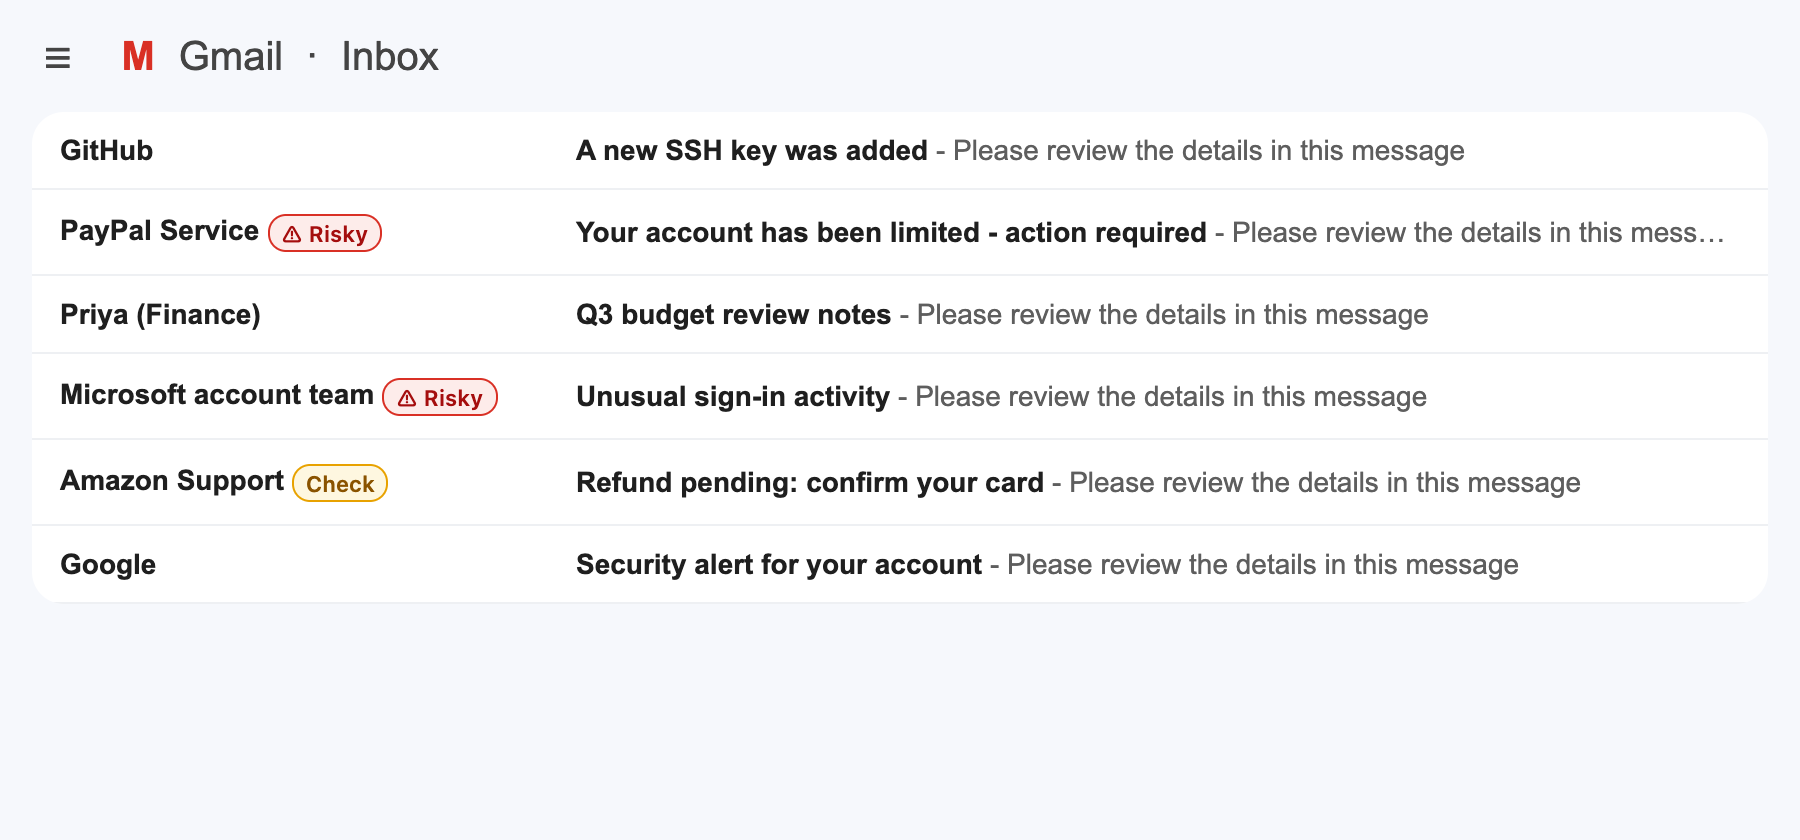
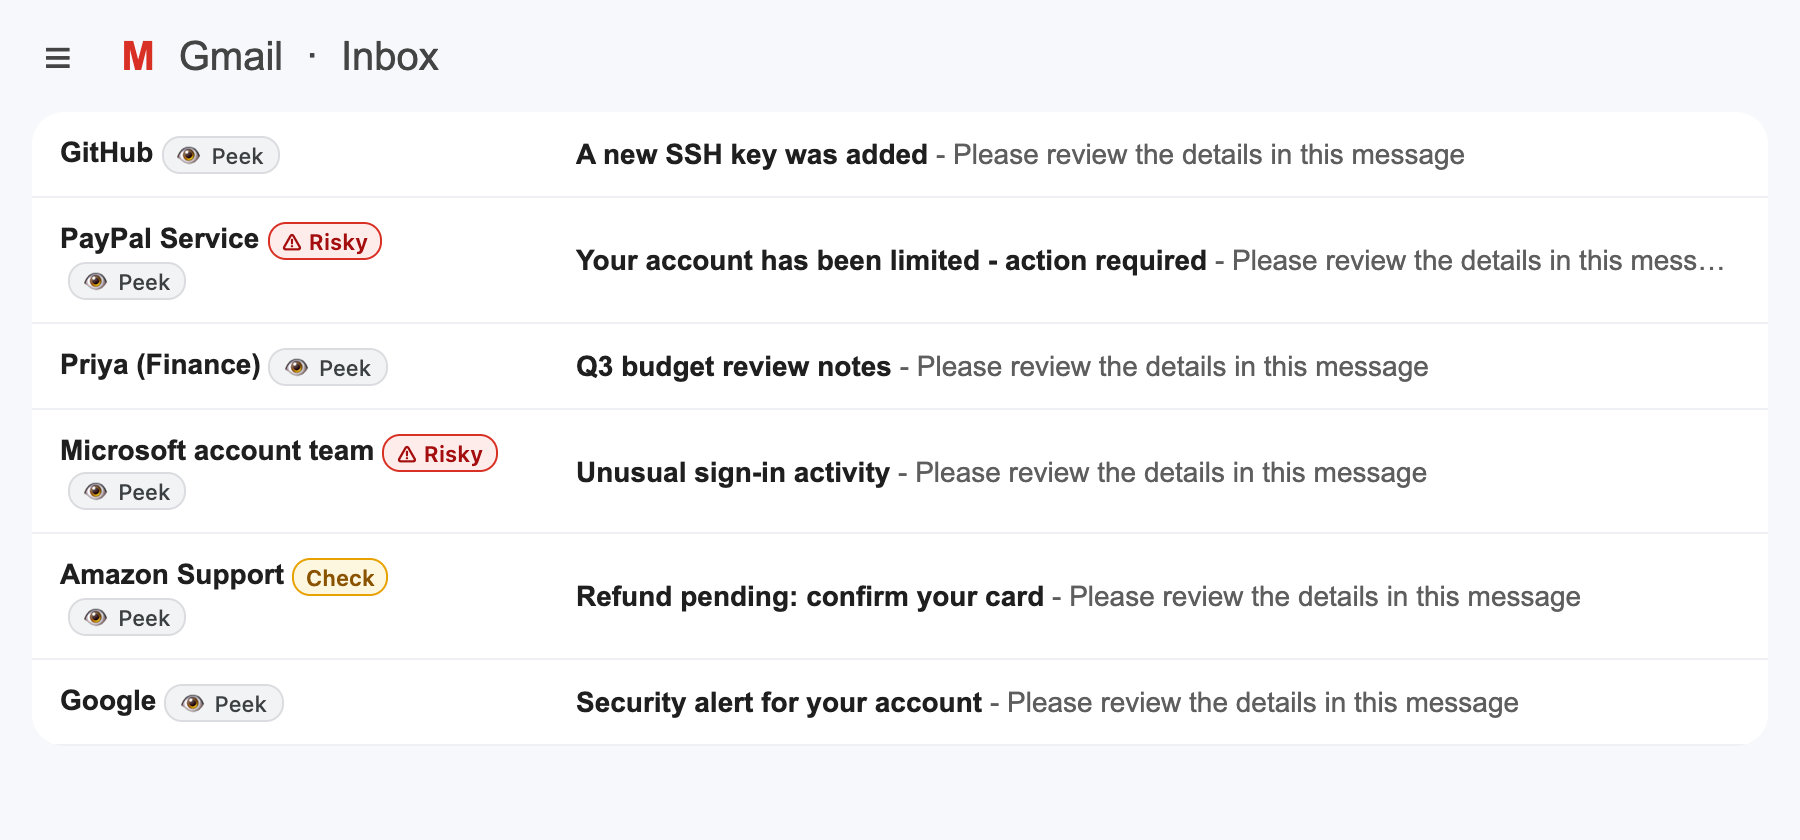
docs: how to use Peek, plain words, simple mode and the protection list
User guide sections 8c-8e with screenshots and step-by-step use, including
why opening an email lets trackers fire and what Peek does instead; how to
export a protection list and import it on family or team computers.
PRIVACY covers the stored list and Peek's download; CHECKS lists the new
findings and points; README, website and changelog show the features.

diff --git a/site/index.html b/site/index.html
@@ -17,6 +17,15 @@
   <img class="shot showcase" src="images/gmail-link-warning.png" alt="Wait, this link goes to paypa1-secure.top, with the reasons and Go back or Open anyway" width="900" height="600">
 </section>
 
+<section class="wrap" id="peek">
+  <h2>Check an email before you open it</h2>
+  <p class="sub">Opening an email loads its hidden tracking pixels and tells the sender you read it. Click <strong>👁 Peek</strong> in the inbox instead: Unmask checks the email and shows a text-only preview, so nothing in it ever loads.</p>
+  <div class="wide">
+    <figure><img class="shot" src="images/inbox-peek.png" alt="Peek card: High risk, reasons in plain words, text-only preview" width="900" height="640" loading="lazy"><figcaption>Peek from the inbox list, without opening</figcaption></figure>
+    <figure><img class="shot" src="images/settings-protection-list.png" alt="Protection list: companies, people and trusted senders, with export and import" width="376" height="760" loading="lazy" style="max-height:520px;width:auto;margin:0 auto"><figcaption>Protect your bank and your boss, then share the list with your family or team</figcaption></figure>
+  </div>
+</section>
+
 <section class="wrap" id="inbox">
   <h2>Warnings right inside your inbox</h2>
   <p class="sub">No need to open anything. Unmask checks each email as you open it and marks risky senders in the list.</p>
@@ -58,6 +67,9 @@
     <div class="card feature"><div class="tag">Files</div><h3>Risky attachments</h3><p>Executables, fake PDFs (<code>Invoice.pdf.html</code>), macro documents, encrypted ZIPs, plus a VirusTotal check.</p></div>
     <div class="card feature"><div class="tag">Body</div><h3>Hidden text, safely shown</h3><p>Invisible text used to fool spam filters, forms asking for passwords, and pressure phrases, in a safe view with scripts off.</p></div>
     <div class="card feature"><div class="tag">Privacy</div><h3>Trackers</h3><p>Tracking pixels and click-tracked links from about 40 services, with images blocked so senders can't tell you opened it.</p></div>
+    <div class="card feature"><div class="tag">New</div><h3>Peek before opening</h3><p>Check an inbox email without opening it, with a text-only preview, so trackers never learn you looked.</p></div>
+    <div class="card feature"><div class="tag">New</div><h3>Plain words</h3><p>"This email looks like a scam. It pretends to be PayPal." Simple mode hides everything technical.</p></div>
+    <div class="card feature"><div class="tag">New</div><h3>Your protection list</h3><p>Your bank, your boss, your family: impostors get the strongest warning. Share the list as a file.</p></div>
     <div class="card feature"><div class="tag">New</div><h3>First-contact warnings</h3><p>"You've never received mail from paypa1-support.xyz. Your PayPal emails usually come from paypal.com." Remembered only on your device.</p></div>
     <div class="card feature"><div class="tag">New</div><h3>QR-code phishing</h3><p>QR codes in images and PDFs are decoded and their real destination checked, before you point your phone at them.</p></div>
     <div class="card feature"><div class="tag">New</div><h3>Payment fraud</h3><p>Changed bank details, payment and gift-card requests, and a contact's name used from a different address.</p></div>

diff --git a/docs/USER_GUIDE.md b/docs/USER_GUIDE.md
@@ -12,6 +12,9 @@ This guide is for everyone, no technical background needed. It covers installing
 - [8. Emails from Outlook and other apps](#8-emails-from-outlook-and-other-apps)
 - [8a. Warnings inside your inbox](#8a-warnings-inside-your-inbox)
 - [8b. Reporting an email](#8b-reporting-an-email)
+- [8c. Peek: check an email without opening it](#8c-peek-check-an-email-without-opening-it)
+- [8d. Plain words and simple mode](#8d-plain-words-and-simple-mode)
+- [8e. Your protection list (and sharing it with family or a team)](#8e-your-protection-list-and-sharing-it-with-family-or-a-team)
 - [9. Settings](#9-settings)
 - [10. Troubleshooting](#10-troubleshooting)
 - [11. FAQ](#11-faq)
@@ -290,6 +293,70 @@ At the bottom of the Summary, **Report or export** offers:
 - **PDF report**, **JSON** and **Original (.eml)** for your IT or security team.
 
 Unmask never sends a report itself; you always review and send it.
+
+---
+
+## 8c. Peek: check an email without opening it
+
+**Why:** when you open an email, Gmail shows its pictures. Marketing and scam emails hide tiny invisible pictures ("tracking pixels") among them. Loading one tells the sender *that* you opened it and *when*, which confirms your address is real. Gmail fetches pictures through its own proxy, so the sender doesn't get your IP address, but it still learns you opened the email.
+
+**What Peek does:** every row in your inbox list gets a small **👁 Peek** button.
+
+<img src="images/inbox-peek.png" width="560" alt="Peek card over the Gmail inbox: High risk, This email looks like a scam, reasons, text preview, Read it safely in Unmask">
+
+1. Click **Peek** on any email in the list. The email does **not** open.
+2. Unmask downloads that email's original source from Gmail (the same file Gmail's *Download message* gives you) and checks it on your computer.
+3. A card shows the verdict, the reasons in plain words and a **text-only preview**: the words of the email, with no pictures and nothing from the internet. Since nothing was loaded, the sender's trackers never fire.
+4. Choose:
+   - **Read it safely in Unmask**: the side panel opens with the full report. The **Body** tab shows the email with pictures blocked and links disabled. It's still not opened in Gmail.
+   - **Close** and delete or report the email from the list without ever opening it.
+   - If it's fine, open it in Gmail as usual.
+
+The row's badge updates with the full result, so you won't need to Peek again.
+
+**Check new emails automatically (optional).** Turn on **Settings → Protection inside Gmail → Check new emails before I open them**. Unmask then Peeks at up to 15 unread emails in the list you're looking at, one at a time, and badges the risky ones. It's off by default because it downloads each of those emails from Gmail.
+
+**Good to know**
+- In a conversation with several messages, Peek checks the first message.
+- Peek works in Gmail. Outlook on the web doesn't let pages download a message's source, so there you get the inbox badges only.
+- Unmask's tests use a stand-in for Gmail, so we can't promise how Gmail treats the download. If Gmail marks the email as read, that only changes the bold styling in your own inbox; it isn't sent to the sender.
+
+---
+
+## 8d. Plain words and simple mode
+
+Every report starts with an **In plain words** card: one sentence ("This email looks like a scam."), up to three reasons in everyday language ("It pretends to be PayPal, but PayPal didn't send it.") and **What to do**. The warning banner inside Gmail uses the same sentence.
+
+<img src="images/panel-simple.png" width="280" align="right" alt="Simple mode: only the plain-words card and the report buttons">
+
+For parents or colleagues who don't want the technical side, turn on **Settings → Protection inside Gmail → Simple mode**. The panel then shows only the plain-words card and the report buttons. The tabs and red flags are one click away under **Show the technical details**.
+
+<br clear="right">
+
+---
+
+## 8e. Your protection list (and sharing it with family or a team)
+
+Scammers usually pretend to be *your* bank, *your* boss or *your* family. Tell Unmask who those are and anything imitating them gets the strongest warning (Critical).
+
+<img src="images/settings-protection-list.png" width="300" align="right" alt="Your protection list in Settings: companies, people, trusted senders, export and import">
+
+Open **Settings → Your protection list**:
+
+- **Companies you use:** a name and its real domains, for example *Canara Bank* → `canarabank.com`. Unmask then flags emails that name it in the sender or subject but come from elsewhere, sender domains imitating it (`canarabnak.com`), and links to look-alikes (`canarabank-kyc.top`).
+- **People who might be impersonated:** a name and every real address they use, for example *Rahul Sharma* → `rahul@acme-corp.com`. An email calling itself "Rahul Sharma" from any other address gets a red warning. This is the classic "boss asks for gift cards" scam.
+- **Trusted senders:** addresses (`mom@gmail.com`) or whole domains (`acme-corp.com`). Verified emails from them are marked trusted and never get a "first contact" warning. An email that *uses* a trusted address but fails verification is flagged as a fake.
+
+**Quicker:** on any genuine email, open the **Sender** tab and click **Trust this sender** or **Protect "name"**.
+
+**Set it up once for everyone:**
+1. On your computer, fill in the list, then click **Export list**. You get `unmask-protection.json`.
+2. Send the file to family members or teammates (email, WhatsApp, a shared drive).
+3. On their computer: **Settings → Your protection list → Import list** and pick the file.
+
+Importing only adds to their list; it never deletes what they already have. The file contains only names, domains and addresses you typed, nothing from anyone's emails.
+
+<br clear="right">
 
 ---
 

diff --git a/docs/CHECKS.md b/docs/CHECKS.md
@@ -10,6 +10,7 @@ Every check, what it means, and how much it adds to the risk score. The numbers 
 - [Attachments](#attachments)
 - [Body content](#body-content)
 - [Sender history](#sender-history)
+- [Your protection list](#your-protection-list)
 - [Payment fraud (BEC)](#payment-fraud-bec)
 - [QR codes](#qr-codes)
 - [Fake brand logos](#fake-brand-logos)
@@ -218,6 +219,28 @@ First-contact warnings start once Unmask knows 10 senders, so a new install does
 
 ---
 
+## Your protection list
+
+Source: [`analyzers/protection.ts`](../extension/src/analyzers/protection.ts). Only runs for entries you add in Settings.
+
+| Check | Severity | Points |
+|---|---|---|
+| Uses the name of a protected person from an address not on their list | Critical | 40 |
+| Sender domain imitates a protected company (look-alike, typo, brand inside the domain) | Critical | 40 |
+| A link goes to a look-alike of a protected company | Critical | 40 |
+| Names a protected company in the sender name or subject but comes from another domain | Critical | 35 |
+| Uses a trusted address, but fails authentication | High | 25 |
+| Trusted sender, verified by DMARC or a DKIM signature from their domain | Good | −10, and no first-contact warning |
+| Trusted sender, but the email has no authentication results to verify | Note | 0 |
+
+---
+
+## Plain words
+
+Source: [`core/plain.ts`](../extension/src/core/plain.ts). The plain-words card and banner sentence are built only from the findings above: the verdict picks the headline ("This email looks like a scam." / "Be careful with this email." / "Nothing looks wrong with this email."), and the most serious findings, one per problem, become up to three everyday reasons. They add no points of their own.
+
+---
+
 ## Payment fraud (BEC)
 
 Source: [`analyzers/bec.ts`](../extension/src/analyzers/bec.ts). Business email compromise needs no link or file, only a convincing request.
@@ -299,5 +322,6 @@ Source: [`lib/gmailProtect.ts`](../extension/src/lib/gmailProtect.ts), [`lib/pro
 - **Inbox badges** next to risky senders: from the verdict of a conversation you already opened, or a quick check of the sender line (display-name tricks, look-alike domains, brand claims, sender history).
 - **"Wait, this link goes to …"** before a link opens when the link has a High/Critical flag, has a Medium flag in a suspicious email, or leaves the sender's domain in a high-risk email.
 - **Reply warning** when Reply would send your answer to an address on another domain.
+- **Peek** (Gmail): a button on each inbox row downloads that email's source and runs every check above without opening it, showing a text-only preview. Optionally, up to 15 unread rows per list are checked automatically.
 
 In **Outlook on the web** Unmask reads the email from the page, because Outlook doesn't give pages the original source. Header checks (SPF, DKIM, DMARC, delivery path) need … → View → View message source pasted into the panel.

diff --git a/README.md b/README.md
@@ -66,6 +66,14 @@
   <img src="docs/images/inbox-badges.png" width="430" alt="Risky and Check badges next to suspicious senders in the Gmail inbox list">
 </p>
 
+**It checks emails before you open them.** Click **👁 Peek** on any inbox row: Unmask checks the email and shows a text-only preview, without opening it, so its trackers never learn you looked. Explanations come in plain words, and a shareable protection list puts your own bank and boss first.
+
+<p align="center">
+  <img src="docs/images/inbox-peek.png" width="560" alt="Peek: High risk verdict, plain reasons and a text-only preview, without opening the email">
+  &nbsp;
+  <img src="docs/images/panel-simple.png" width="250" alt="Simple mode: This email looks like a scam, with reasons in everyday words and what to do">
+</p>
+
 **It catches replies going to the scammer** and QR codes hidden in PDFs, and it looks inside attachments without opening them.
 
 <p align="center">
@@ -111,6 +119,9 @@ Using another mail app? Save the email as an `.eml` file and drop it on the pane
 | | |
 |---|---|
 | **Sender checks** | SPF, DKIM and DMARC; display names that hide another address; look-alike domains such as `paypa1.com` or `pаypal.com` (Cyrillic а) for 50+ brands; brand names sent from free webmail; Reply-To and bounce addresses elsewhere; brand-new domains. |
+| **Peek before opening** | Checks an inbox email without opening it; text-only preview, no trackers. Optional automatic checks of unread mail. |
+| **Plain words** | Every verdict in one everyday sentence with what to do; simple mode for non-technical users. |
+| **Protection list** | Your bank, your boss and trusted senders: impostors get critical warnings. Export/import to protect a whole family or team. |
 | **Sender history** | First-contact warnings, "your PayPal emails usually come from paypal.com", and a contact's name used from another address. Kept only on your device. |
 | **Payment fraud (BEC)** | Changed bank details, payment and wire requests, gift-card asks, and "are you available? keep this confidential" openers. |
 | **QR codes** | Decodes QR codes in images and PDFs and checks where they really go. |

diff --git a/PRIVACY.md b/PRIVACY.md
@@ -12,6 +12,8 @@ Unmask is a browser extension that analyses emails for signs of phishing. It is 
 - **Images and QR codes.** Images that are part of the email (attachments, inline and embedded images, images inside PDFs) are decoded on your computer to read QR codes and compare logos. Remote images are never downloaded.
 - **Attachments.** PDFs, Office files, archives and HTML files are read as bytes to find links, macros and file lists. Nothing is opened or run.
 - **Sender history.** To warn about first contact and impostors, Unmask keeps a list of the addresses and display names that have emailed you, with counts and dates, in extension storage. It is never uploaded. Turn it off or press **Forget all** under Settings → Privacy. Emails opened from files and high-risk emails are not added.
+- **Your protection list.** The companies, people and trusted senders you add are stored in extension storage and used only for checks on your computer. **Export list** saves them to a file on your computer; Unmask never sends the list anywhere.
+- **Peek.** Clicking Peek (or turning on "Check new emails before I open them") downloads that email's source from Gmail, using your Gmail session, exactly like opening the panel on an open email. The email is analyzed locally and only its text is shown; images and links in it are never loaded.
 - **Recent verdicts.** The risk level of the last 1,000 conversations you opened is kept in extension storage so the inbox list can show badges.
 - **Reports.** PDF, JSON and .eml exports are created in your browser and saved to your Downloads folder. Report buttons open Gmail's own report dialog, a compose window or a web form for you to send yourself; Unmask sends nothing.
 - **Settings and API keys** you enter are stored in your browser's extension storage (`chrome.storage.local`) and never leave your device except as described below.

diff --git a/CHANGELOG.md b/CHANGELOG.md
@@ -5,6 +5,9 @@ All notable changes to Unmask. The format follows [Keep a Changelog](https://kee
 ## [Unreleased]
 
 ### Added
+- **Peek:** a button on every Gmail inbox row checks the email without opening it. You see the verdict, plain reasons and a text-only preview; images and trackers never load. *Read it safely in Unmask* opens the full report, still unopened. Optional automatic checks of unread emails.
+- **Plain words and simple mode:** an "In plain words" card (one sentence, everyday reasons, what to do) on every report and in the Gmail banner; simple mode hides the technical details until asked.
+- **Your protection list:** companies you use, people who might be impersonated and trusted senders, with critical warnings for anything imitating them. One-click *Trust this sender* / *Protect name*. Export and import as a file to set it up for a family or team.
 - **Warnings inside Gmail:** a red or amber banner above risky emails, risk badges next to risky senders in the inbox list, *"Wait, this link goes to …"* before risky links, and a warning when Reply would go to a different address. Works without opening the panel.
 - **Sender history** kept only on your device: first-contact warnings, "your PayPal emails usually come from paypal.com", and a contact's name used from a different address.
 - **QR-code phishing:** QR codes in images and PDFs are decoded and their links checked.
